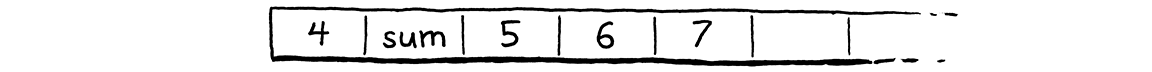
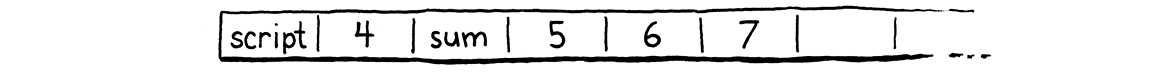
Fix illustrations.

diff --git a/site/calls-and-functions.html b/site/calls-and-functions.html
@@ -628,8 +628,7 @@ is a &ldquo;frame pointer&rdquo; because it points to the beginning of the funct
 frame. Sometimes you hear &ldquo;base pointer&rdquo;, because it points to the base stack
 slot on top of which all of the function&rsquo;s variables live.</p>
 <p>That&rsquo;s the first piece of data we need to track. Every time we call a function,
-the VM needs to track of the first stack slot where that function&rsquo;s variables
-begin.</p>
+the VM determines first stack slot where that function&rsquo;s variables begin.</p>
 <h3><a href="#return-addresses" name="return-addresses"><small>24&#8202;.&#8202;3&#8202;.&#8202;2</small> Return addresses</a></h3>
 <p>Right now, the VM works its way through the instruction stream by incrementing
 the <code>ip</code> field. The only interesting behavior is around control flow
@@ -860,10 +859,11 @@ replace 10 lines</div>
 <pre class="insert"><span></span>  <span class="n">ObjFunction</span><span class="o">*</span> <span class="n">function</span> <span class="o">=</span> <span class="n">compile</span><span class="p">(</span><span class="n">source</span><span class="p">);</span>             
   <span class="k">if</span> <span class="p">(</span><span class="n">function</span> <span class="o">==</span> <span class="nb">NULL</span><span class="p">)</span> <span class="k">return</span> <span class="n">INTERPRET_COMPILE_ERROR</span><span class="p">;</span>
 
+  <span class="n">push</span><span class="p">(</span><span class="n">OBJ_VAL</span><span class="p">(</span><span class="n">function</span><span class="p">));</span>                             
   <span class="n">CallFrame</span><span class="o">*</span> <span class="n">frame</span> <span class="o">=</span> <span class="o">&amp;</span><span class="n">vm</span><span class="p">.</span><span class="n">frames</span><span class="p">[</span><span class="n">vm</span><span class="p">.</span><span class="n">frameCount</span><span class="o">++</span><span class="p">];</span>      
   <span class="n">frame</span><span class="o">-&gt;</span><span class="n">function</span> <span class="o">=</span> <span class="n">function</span><span class="p">;</span>                          
   <span class="n">frame</span><span class="o">-&gt;</span><span class="n">ip</span> <span class="o">=</span> <span class="n">function</span><span class="o">-&gt;</span><span class="n">chunk</span><span class="p">.</span><span class="n">code</span><span class="p">;</span>                    
-  <span class="n">frame</span><span class="o">-&gt;</span><span class="n">slots</span> <span class="o">=</span> <span class="n">vm</span><span class="p">.</span><span class="n">stackTop</span><span class="p">;</span>                          
+  <span class="n">frame</span><span class="o">-&gt;</span><span class="n">slots</span> <span class="o">=</span> <span class="n">vm</span><span class="p">.</span><span class="n">stack</span><span class="p">;</span>                             
 </pre><pre class="insert-after"><br><span></span>  <span class="n">InterpretResult</span> <span class="n">result</span> <span class="o">=</span> <span class="n">run</span><span class="p">();</span>                      
 </pre></div>
 
@@ -874,19 +874,21 @@ we just made. First, we pass the source code to the compiler. It returns us a
 new ObjFunction containing the compiled top-level code. If we get <code>NULL</code> back,
 it means there was some compile-time error which the compiler has already
 reported. In that case, we bail out since we can&rsquo;t run anything.</p>
-<p>Otherwise, we prepare an initial CallFrame to execute the new function&rsquo;s code.
-We point to the function, initialize frame&rsquo;s the <code>ip</code> to point to the beginning
-of the function&rsquo;s bytecode, and set up its stack window to start at the very
-bottom of the VM&rsquo;s value stack.</p>
+<p>Otherwise, we store the function on the stack and prepare an initial CallFrame
+to execute its code. Now you can see why the compiler sets aside local variable
+stack slot zero<span class="em">&mdash;</span>that stores the function being called. In the new CallFrame,
+we point to the function, initialize its <code>ip</code> to point to the beginning of the
+function&rsquo;s bytecode, and set up its stack window to start at the very bottom of
+the VM&rsquo;s value stack.</p>
 <p>This gets the interpreter ready to start executing code. After finishing, the VM
 used to free the hardcoded chunk. Now that the ObjFunction owns that code, we
 don&rsquo;t need to do that anymore, so the end of <code>interpret()</code> is simply:</p>
-<div class="codehilite"><pre class="insert-before"><span></span>  <span class="n">frame</span><span class="o">-&gt;</span><span class="n">slots</span> <span class="o">=</span> <span class="n">vm</span><span class="p">.</span><span class="n">stackTop</span><span class="p">;</span>
+<div class="codehilite"><pre class="insert-before"><span></span>  <span class="n">frame</span><span class="o">-&gt;</span><span class="n">slots</span> <span class="o">=</span> <span class="n">vm</span><span class="p">.</span><span class="n">stack</span><span class="p">;</span>
 <br></pre><div class="source-file"><em>vm.c</em><br>
 in <em>interpret</em>()<br>
 replace 4 lines</div>
-<pre class="insert"><span></span>  <span class="k">return</span> <span class="nf">run</span><span class="p">();</span>              
-</pre><pre class="insert-after"><span></span><span class="p">}</span>                            
+<pre class="insert"><span></span>  <span class="k">return</span> <span class="nf">run</span><span class="p">();</span>           
+</pre><pre class="insert-after"><span></span><span class="p">}</span>                         
 </pre></div>
 
 <div class="source-file-narrow"><em>vm.c</em>, in <em>interpret</em>(), replace 4 lines</div>
@@ -1200,7 +1202,7 @@ like at the point of a call and what we need to do from there. When we reach the
 call instruction, we have already executed the expression for the function being
 called followed by its arguments. Say our program looks like:</p>
 <div class="codehilite"><pre><span></span><span class="k">fun</span> <span class="n">sum</span><span class="p">(</span><span class="n">a</span><span class="p">,</span> <span class="n">b</span><span class="p">,</span> <span class="n">c</span><span class="p">)</span> <span class="p">{</span>
-  <span class="k">print</span> <span class="n">a</span> <span class="o">+</span> <span class="n">b</span> <span class="o">+</span> <span class="n">c</span><span class="p">;</span>
+  <span class="k">return</span> <span class="n">a</span> <span class="o">+</span> <span class="n">b</span> <span class="o">+</span> <span class="n">c</span><span class="p">;</span>
 <span class="p">}</span>
 
 <span class="k">print</span> <span class="mi">4</span> <span class="o">+</span> <span class="n">sum</span><span class="p">(</span><span class="mi">5</span><span class="p">,</span> <span class="mi">6</span><span class="p">,</span> <span class="mi">7</span><span class="p">);</span>
@@ -1344,12 +1346,12 @@ useful when we get to methods.</p>
 <p>Time for a quick side trip. Now that we have a handy function for initiating a
 CallFrame, we may as well use it to set up the first frame for executing the top
 level code:</p>
-<div class="codehilite"><pre class="insert-before"><span></span>  <span class="k">if</span> <span class="p">(</span><span class="n">function</span> <span class="o">==</span> <span class="nb">NULL</span><span class="p">)</span> <span class="k">return</span> <span class="n">INTERPRET_COMPILE_ERROR</span><span class="p">;</span>
-<br></pre><div class="source-file"><em>vm.c</em><br>
+<div class="codehilite"><pre class="insert-before"><br><span></span>  <span class="n">push</span><span class="p">(</span><span class="n">OBJ_VAL</span><span class="p">(</span><span class="n">function</span><span class="p">));</span>        
+</pre><div class="source-file"><em>vm.c</em><br>
 in <em>interpret</em>()<br>
 replace 4 lines</div>
-<pre class="insert"><span></span>  <span class="n">callValue</span><span class="p">(</span><span class="n">OBJ_VAL</span><span class="p">(</span><span class="n">function</span><span class="p">),</span> <span class="mi">0</span><span class="p">);</span>                     
-</pre><pre class="insert-after"><br><span></span>  <span class="k">return</span> <span class="nf">run</span><span class="p">();</span>                                        
+<pre class="insert"><span></span>  <span class="n">callValue</span><span class="p">(</span><span class="n">OBJ_VAL</span><span class="p">(</span><span class="n">function</span><span class="p">),</span> <span class="mi">0</span><span class="p">);</span>
+</pre><pre class="insert-after"><br><span></span>  <span class="k">return</span> <span class="nf">run</span><span class="p">();</span>                   
 </pre></div>
 
 <div class="source-file-narrow"><em>vm.c</em>, in <em>interpret</em>(), replace 4 lines</div>
@@ -1500,6 +1502,14 @@ and parameters. That includes the same slots the caller used to pass the
 arguments. Now that the call is done, the caller doesn&rsquo;t need them anymore. This
 means the top of the stack ends up right at the beginning of the returning
 function&rsquo;s stack window.</p>
+<div class="codehilite"><pre><span></span><span class="k">fun</span> <span class="n">sum</span><span class="p">(</span><span class="n">a</span><span class="p">,</span> <span class="n">b</span><span class="p">,</span> <span class="n">c</span><span class="p">)</span> <span class="p">{</span>
+  <span class="k">return</span> <span class="n">a</span> <span class="o">+</span> <span class="n">b</span> <span class="o">+</span> <span class="n">c</span><span class="p">;</span>
+<span class="p">}</span>
+
+<span class="k">print</span> <span class="mi">4</span> <span class="o">+</span> <span class="n">sum</span><span class="p">(</span><span class="mi">5</span><span class="p">,</span> <span class="mi">6</span><span class="p">,</span> <span class="mi">7</span><span class="p">);</span>
+</pre></div>
+
+
 <p><strong>todo: illustrate</strong></p>
 <p>We push the return value back onto the stack at that new lower location. Then we
 update the <code>run()</code> function&rsquo;s cached pointer to the current frame. Just like
@@ -1563,12 +1573,12 @@ in <em>statement</em>()</div>
 add after <em>printStatement</em>()</div>
 <pre><span></span><span class="k">static</span> <span class="kt">void</span> <span class="nf">returnStatement</span><span class="p">()</span> <span class="p">{</span>                                
   <span class="k">if</span> <span class="p">(</span><span class="n">match</span><span class="p">(</span><span class="n">TOKEN_SEMICOLON</span><span class="p">))</span> <span class="p">{</span>                                
-    <span class="n">emitByte</span><span class="p">(</span><span class="n">OP_NIL</span><span class="p">);</span>                                          
+    <span class="n">emitReturn</span><span class="p">();</span>                                              
   <span class="p">}</span> <span class="k">else</span> <span class="p">{</span>                                                     
     <span class="n">expression</span><span class="p">();</span>                                              
     <span class="n">consume</span><span class="p">(</span><span class="n">TOKEN_SEMICOLON</span><span class="p">,</span> <span class="s">&quot;Expect &#39;;&#39; after return value.&quot;</span><span class="p">);</span>
+    <span class="n">emitByte</span><span class="p">(</span><span class="n">OP_RETURN</span><span class="p">);</span>                                       
   <span class="p">}</span>                                                            
-  <span class="n">emitByte</span><span class="p">(</span><span class="n">OP_RETURN</span><span class="p">);</span>                                         
 <span class="p">}</span>                                                              
 </pre></div>
 

diff --git a/site/local-variables.html b/site/local-variables.html
@@ -551,18 +551,21 @@ when the scopes overlap such that both are visible at the same time. That&rsquo;
 shadowing, and Lox does allow that. It&rsquo;s only an error to have two variables
 with the same name in the <em>same</em> local scope.</p>
 <p>We detect that error like so:</p>
-<div class="codehilite"><pre class="insert-before"><span></span>  <span class="n">Token</span><span class="o">*</span> <span class="n">name</span> <span class="o">=</span> <span class="o">&amp;</span><span class="n">parser</span><span class="p">.</span><span class="n">previous</span><span class="p">;</span>                                                     
+<div class="codehilite"><pre class="insert-before"><span></span>  <span class="n">Token</span><span class="o">*</span> <span class="n">name</span> <span class="o">=</span> <span class="o">&amp;</span><span class="n">parser</span><span class="p">.</span><span class="n">previous</span><span class="p">;</span>                                      
 </pre><div class="source-file"><em>compiler.c</em><br>
 in <em>declareVariable</em>()</div>
-<pre class="insert"><span></span>  <span class="k">for</span> <span class="p">(</span><span class="kt">int</span> <span class="n">i</span> <span class="o">=</span> <span class="n">current</span><span class="o">-&gt;</span><span class="n">localCount</span> <span class="o">-</span> <span class="mi">1</span><span class="p">;</span> <span class="n">i</span> <span class="o">&gt;=</span> <span class="mi">0</span><span class="p">;</span> <span class="n">i</span><span class="o">--</span><span class="p">)</span> <span class="p">{</span>                                
-    <span class="n">Local</span><span class="o">*</span> <span class="n">local</span> <span class="o">=</span> <span class="o">&amp;</span><span class="n">current</span><span class="o">-&gt;</span><span class="n">locals</span><span class="p">[</span><span class="n">i</span><span class="p">];</span>                                               
-    <span class="k">if</span> <span class="p">(</span><span class="n">local</span><span class="o">-&gt;</span><span class="n">depth</span> <span class="o">!=</span> <span class="o">-</span><span class="mi">1</span> <span class="o">&amp;&amp;</span> <span class="n">local</span><span class="o">-&gt;</span><span class="n">depth</span> <span class="o">&lt;</span> <span class="n">current</span><span class="o">-&gt;</span><span class="n">scopeDepth</span><span class="p">)</span> <span class="k">break</span><span class="p">;</span> <span name="negative"></span>
-    <span class="k">if</span> <span class="p">(</span><span class="n">identifiersEqual</span><span class="p">(</span><span class="n">name</span><span class="p">,</span> <span class="o">&amp;</span><span class="n">local</span><span class="o">-&gt;</span><span class="n">name</span><span class="p">))</span> <span class="p">{</span>                                       
-      <span class="n">error</span><span class="p">(</span><span class="s">&quot;Variable with this name already declared in this scope.&quot;</span><span class="p">);</span>               
-    <span class="p">}</span>                                                                                 
-  <span class="p">}</span>                                                                                   
-<br></pre><pre class="insert-after"><span></span>  <span class="n">addLocal</span><span class="p">(</span><span class="o">*</span><span class="n">name</span><span class="p">);</span>                                                                    
-<span class="p">}</span>                                                                                     
+<pre class="insert"><span></span>  <span class="k">for</span> <span class="p">(</span><span class="kt">int</span> <span class="n">i</span> <span class="o">=</span> <span class="n">current</span><span class="o">-&gt;</span><span class="n">localCount</span> <span class="o">-</span> <span class="mi">1</span><span class="p">;</span> <span class="n">i</span> <span class="o">&gt;=</span> <span class="mi">0</span><span class="p">;</span> <span class="n">i</span><span class="o">--</span><span class="p">)</span> <span class="p">{</span>                 
+    <span class="n">Local</span><span class="o">*</span> <span class="n">local</span> <span class="o">=</span> <span class="o">&amp;</span><span class="n">current</span><span class="o">-&gt;</span><span class="n">locals</span><span class="p">[</span><span class="n">i</span><span class="p">];</span>                                
+    <span class="k">if</span> <span class="p">(</span><span class="n">local</span><span class="o">-&gt;</span><span class="n">depth</span> <span class="o">!=</span> <span class="o">-</span><span class="mi">1</span> <span class="o">&amp;&amp;</span> <span class="n">local</span><span class="o">-&gt;</span><span class="n">depth</span> <span class="o">&lt;</span> <span class="n">current</span><span class="o">-&gt;</span><span class="n">scopeDepth</span><span class="p">)</span> <span class="p">{</span>    
+      <span class="k">break</span><span class="p">;</span> <span name="negative"></span>
+    <span class="p">}</span>
+
+    <span class="k">if</span> <span class="p">(</span><span class="n">identifiersEqual</span><span class="p">(</span><span class="n">name</span><span class="p">,</span> <span class="o">&amp;</span><span class="n">local</span><span class="o">-&gt;</span><span class="n">name</span><span class="p">))</span> <span class="p">{</span>                        
+      <span class="n">error</span><span class="p">(</span><span class="s">&quot;Variable with this name already declared in this scope.&quot;</span><span class="p">);</span>
+    <span class="p">}</span>                                                                  
+  <span class="p">}</span>                                                                    
+<br></pre><pre class="insert-after"><span></span>  <span class="n">addLocal</span><span class="p">(</span><span class="o">*</span><span class="n">name</span><span class="p">);</span>                                                     
+<span class="p">}</span>                                                                      
 </pre></div>
 
 <div class="source-file-narrow"><em>compiler.c</em>, in <em>declareVariable</em>()</div>

diff --git a/book/calls-and-functions.md b/book/calls-and-functions.md
@@ -405,8 +405,7 @@ frame. Sometimes you hear "base pointer", because it points to the base stack
 slot on top of which all of the function's variables live.
 
 That's the first piece of data we need to track. Every time we call a function,
-the VM needs to track of the first stack slot where that function's variables
-begin.
+the VM determines first stack slot where that function's variables begin.
 
 ### Return addresses
 
@@ -575,10 +574,12 @@ new ObjFunction containing the compiled top-level code. If we get `NULL` back,
 it means there was some compile-time error which the compiler has already
 reported. In that case, we bail out since we can't run anything.
 
-Otherwise, we prepare an initial CallFrame to execute the new function's code.
-We point to the function, initialize frame's the `ip` to point to the beginning
-of the function's bytecode, and set up its stack window to start at the very
-bottom of the VM's value stack.
+Otherwise, we store the function on the stack and prepare an initial CallFrame
+to execute its code. Now you can see why the compiler sets aside local variable
+stack slot zero -- that stores the function being called. In the new CallFrame,
+we point to the function, initialize its `ip` to point to the beginning of the
+function's bytecode, and set up its stack window to start at the very bottom of
+the VM's value stack.
 
 This gets the interpreter ready to start executing code. After finishing, the VM
 used to free the hardcoded chunk. Now that the ObjFunction owns that code, we
@@ -806,7 +807,7 @@ called followed by its arguments. Say our program looks like:
 
 ```lox
 fun sum(a, b, c) {
-  print a + b + c;
+  return a + b + c;
 }
 
 print 4 + sum(5, 6, 7);
